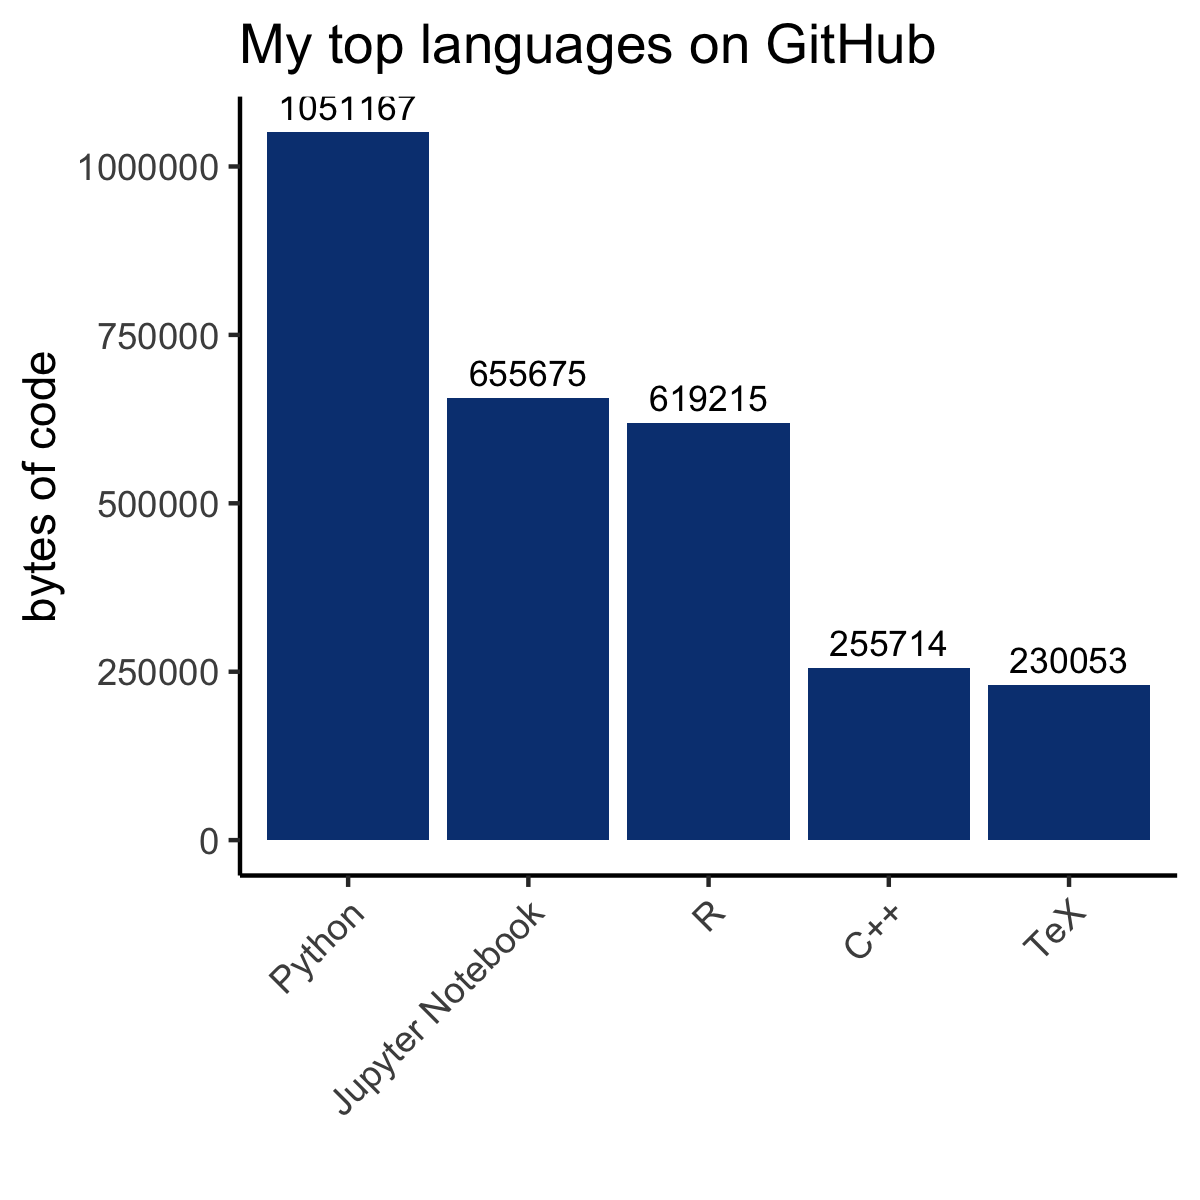
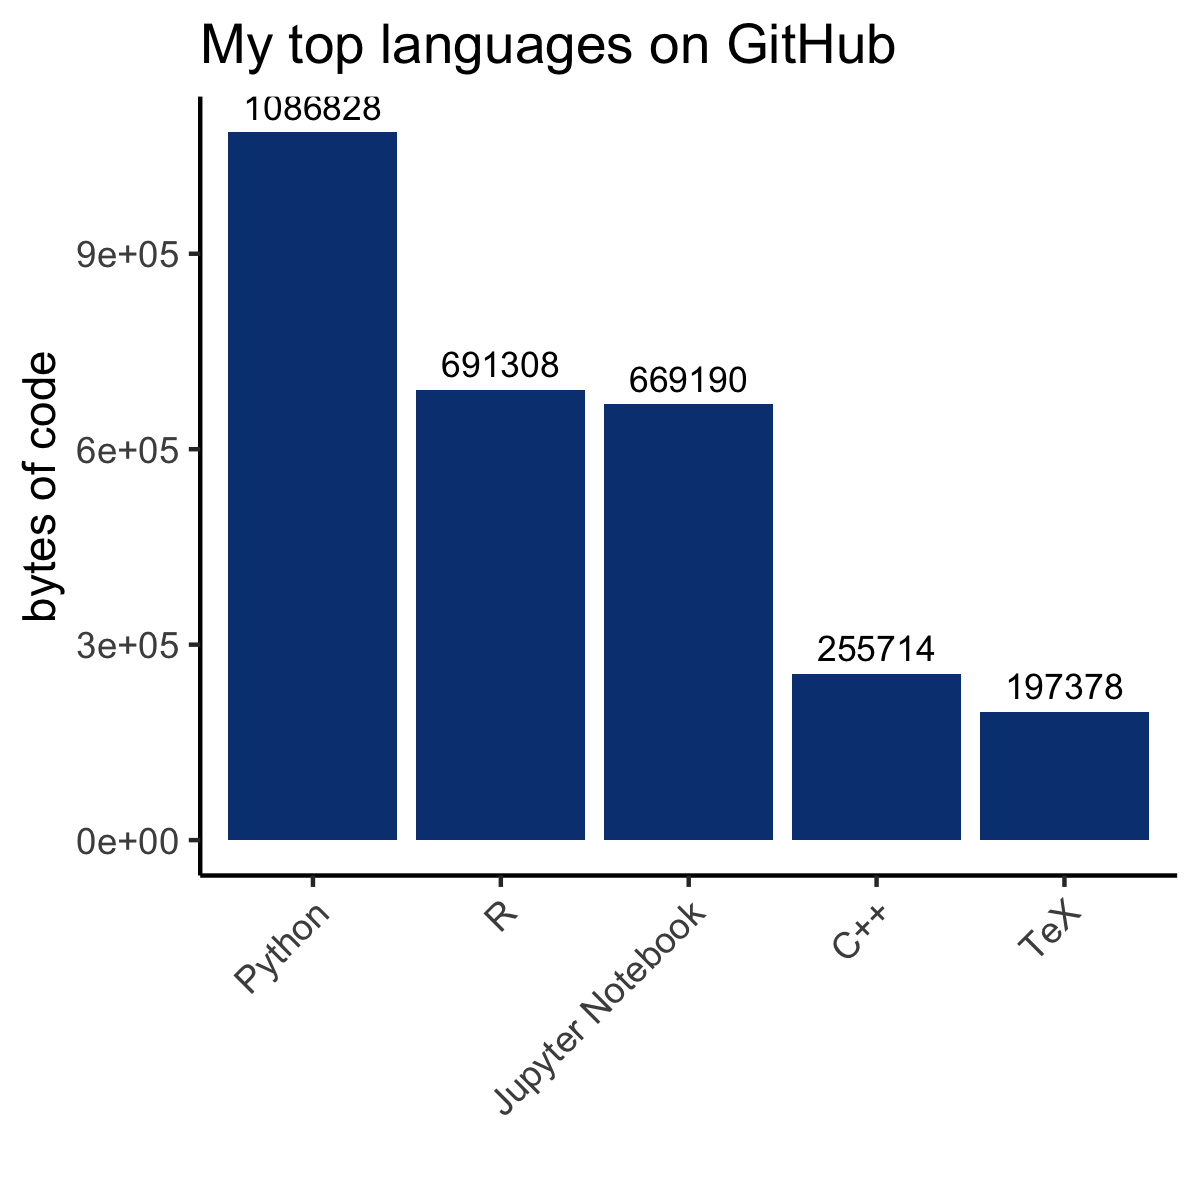
R has surpassed Jupyter! :)

diff --git a/README.md b/README.md
@@ -13,35 +13,35 @@ A meta-repository to organize my public projects.
 |---|---|---|---|
 | [meta-repo](https://github.com/kelly-sovacool/meta-repo) | A meta-repository to organize my public projects. | [kelly-sovacool](https://github.com/kelly-sovacool) | Python, R, Shell |
 | [strava](https://github.com/kelly-sovacool/strava) | Having fun plotting my activity data from Strava! | [kelly-sovacool](https://github.com/kelly-sovacool) | R, Python, Shell |
-| [um-dang.github.io](https://github.com/um-dang/um-dang.github.io) | Website for the Data Analysis Networking Group at U-M. | [um-dang](https://github.com/um-dang) |  |
-| [umswc.github.io](https://github.com/UMSWC/umswc.github.io) | UM Software and Data Carpentry Website | [UMSWC](https://github.com/UMSWC) | CSS, HTML, Python, Ruby |
-| [schlosslab.github.io](https://github.com/SchlossLab/schlosslab.github.io) | The website for the Schloss Lab at the University of Michigan | [SchlossLab](https://github.com/SchlossLab) | CSS, HTML, Ruby |
 | [ClubCurriculum](https://github.com/GWC-DCMB/ClubCurriculum) | Curriculum for our weekly club for high school students. | [GWC-DCMB](https://github.com/GWC-DCMB) | Jupyter Notebook, Python |
+| [kelly-sovacool.github.io](https://github.com/kelly-sovacool/kelly-sovacool.github.io) | My personal website, forked from the academicpages template. | [kelly-sovacool](https://github.com/kelly-sovacool) | Shell |
+| [latex-cv](https://github.com/kelly-sovacool/latex-cv) | My curriculum vitae in LaTeX + a Snakemake pipeline for compiling tex to pdf. | [kelly-sovacool](https://github.com/kelly-sovacool) | TeX, Python |
+| [umswc.github.io](https://github.com/UMSWC/umswc.github.io) | UM Software and Data Carpentry Website | [UMSWC](https://github.com/UMSWC) | CSS, HTML, Python, Ruby |
+| [CapstoneProject](https://github.com/GWC-DCMB/CapstoneProject) | Capstone Project datasets & instructions. | [GWC-DCMB](https://github.com/GWC-DCMB) | Jupyter Notebook |
+| [CluMSID](https://github.com/kelly-sovacool/CluMSID) | Fork of CluMSID: Clustering of MS² Spectra for Metabolite Identification | [kelly-sovacool](https://github.com/kelly-sovacool) | R, Rebol |
+| [loops-apply-r](https://github.com/um-dang/loops-apply-r) | Looping in R: for loops & the apply family  | [um-dang](https://github.com/um-dang) |  |
+| [machine-learning-pipelines-r](https://github.com/um-dang/machine-learning-pipelines-r) | Machine Learning Pipelines in R: Predict colorectal cancer using microbiome data | [um-dang](https://github.com/um-dang) | R |
+| [um-dang.github.io](https://github.com/um-dang/um-dang.github.io) | Website for the Data Analysis Networking Group at U-M. | [um-dang](https://github.com/um-dang) |  |
+| [writing-functions-r](https://github.com/um-dang/writing-functions-r) | Introduction to writing functions in R | [um-dang](https://github.com/um-dang) | R |
+| [schlosslab.github.io](https://github.com/SchlossLab/schlosslab.github.io) | The website for the Schloss Lab at the University of Michigan | [SchlossLab](https://github.com/SchlossLab) | CSS, HTML, Ruby |
 | [caret](https://github.com/kelly-sovacool/caret) | A fork of caret (Classification And Regression Training) R package | [kelly-sovacool](https://github.com/kelly-sovacool) | R, HTML, TeX, CSS, C |
 | [GWC-DCMB](https://github.com/GWC-DCMB/GWC-DCMB) | A meta-repository to help navigate the repos and resources of Girls Who Code at UM-DCMB. | [GWC-DCMB](https://github.com/GWC-DCMB) | Python, Shell |
 | [SummerExperience](https://github.com/GWC-DCMB/SummerExperience) | Curriculum & materials for our week-long Data Science Summer Experience. | [GWC-DCMB](https://github.com/GWC-DCMB) | Jupyter Notebook, Python |
 | [ML_pipeline_microbiome](https://github.com/SchlossLab/ML_pipeline_microbiome) |  | [SchlossLab](https://github.com/SchlossLab) | R, Shell |
-| [latex-cv](https://github.com/kelly-sovacool/latex-cv) | My curriculum vitae in LaTeX + a Snakemake pipeline for compiling tex to pdf. | [kelly-sovacool](https://github.com/kelly-sovacool) | TeX, Python, Shell |
-| [CapstoneProject](https://github.com/GWC-DCMB/CapstoneProject) | Capstone Project datasets & instructions. | [GWC-DCMB](https://github.com/GWC-DCMB) | Jupyter Notebook |
 | [2020-01-06-UMich-WISE](https://github.com/UMSWC/2020-01-06-UMich-WISE) | Software Carpentry workshop for WISE at U-M | [UMSWC](https://github.com/UMSWC) | Python, HTML, CSS, R, Makefile, JavaScript, Shell, Ruby |
-| [omu-prototype](https://github.com/SchlossLab/omu-prototype) | A tool to cluster features from untargeted mass spectrometry experiments into Operational Metabolomic Units (OMU) | [SchlossLab](https://github.com/SchlossLab) | Python |
 | [challengeQuestions](https://github.com/GWC-DCMB/challengeQuestions) | Jupyter notebooks of challenge questions for learners. | [GWC-DCMB](https://github.com/GWC-DCMB) | Jupyter Notebook, Python |
 | [jupyter-ci-mwe](https://github.com/kelly-sovacool/jupyter-ci-mwe) | A minimal working example of using continuous integration to convert jupyter notebooks to PDFs. | [kelly-sovacool](https://github.com/kelly-sovacool) | Jupyter Notebook |
-| [kelly-sovacool.github.io](https://github.com/kelly-sovacool/kelly-sovacool.github.io) | My personal website, forked from the academicpages template. | [kelly-sovacool](https://github.com/kelly-sovacool) | Shell |
 | [tiger_salamander_project](https://github.com/kelly-sovacool/tiger_salamander_project) | SNP pipeline using Snakemake for the Weisrock Lab's Tiger Salamander project. | [kelly-sovacool](https://github.com/kelly-sovacool) | Python, Shell |
 | [codeDemos](https://github.com/GWC-DCMB/codeDemos) | Stand-alone Python coding demos. | [GWC-DCMB](https://github.com/GWC-DCMB) | Jupyter Notebook, Python |
-| [loops-apply-r](https://github.com/um-dang/loops-apply-r) | Looping in R: for loops & the apply family  | [um-dang](https://github.com/um-dang) |  |
 | [snakemake_hpc_mwe](https://github.com/kelly-sovacool/snakemake_hpc_mwe) | A minimal working example of using Snakemake on an HPC running PBS-torque or SLURM. | [kelly-sovacool](https://github.com/kelly-sovacool) | Shell, Python |
-| [machine-learning-pipelines-r](https://github.com/um-dang/machine-learning-pipelines-r) | Machine Learning Pipelines in R: Predict colorectal cancer using microbiome data | [um-dang](https://github.com/um-dang) | R |
 | [tcf-words](https://github.com/c-andy-martin/tcf-words) | TCF Overhead Words | [c-andy-martin](https://github.com/c-andy-martin) |  |
 | [ozobotLessons](https://github.com/GWC-DCMB/ozobotLessons) | Lesson plans for Ozobots. | [GWC-DCMB](https://github.com/GWC-DCMB) | HTML |
-| [writing-functions-r](https://github.com/um-dang/writing-functions-r) | Introduction to writing functions in R | [um-dang](https://github.com/um-dang) | R |
 | [FEMMES](https://github.com/GWC-DCMB/FEMMES) | Resources for activities for U-M FEMMES. | [GWC-DCMB](https://github.com/GWC-DCMB) |  |
-| [Great_Lakes_SLURM](https://github.com/SchlossLab/Great_Lakes_SLURM) | Using the Great Lakes cluster and batch computing with SLURM  | [SchlossLab](https://github.com/SchlossLab) |  |
 
 ### Stale
 | Repository | Description | Owner | Language(s) |
 |---|---|---|---|
+| [Great_Lakes_SLURM](https://github.com/SchlossLab/Great_Lakes_SLURM) | Using the Great Lakes cluster and batch computing with SLURM  | [SchlossLab](https://github.com/SchlossLab) |  |
 | [git_update](https://github.com/akhagan/git_update) | Updating SWC git lessons with the puzzle analogy | [akhagan](https://github.com/akhagan) | HTML, Python, CSS, R, Makefile, JavaScript, Ruby, Shell |
 | [stats-ref](https://github.com/kelly-sovacool/stats-ref) | A reference for concepts & equations in statistics. | [kelly-sovacool](https://github.com/kelly-sovacool) | Python, CSS |
 | [PyCon_2019](https://github.com/GabrielleRab/PyCon_2019) | Repository for PyCon 2019 Education Summit Mini-Sprint: Workbooks that teach Python through scientific data exploration | [GabrielleRab](https://github.com/GabrielleRab) | Jupyter Notebook |
